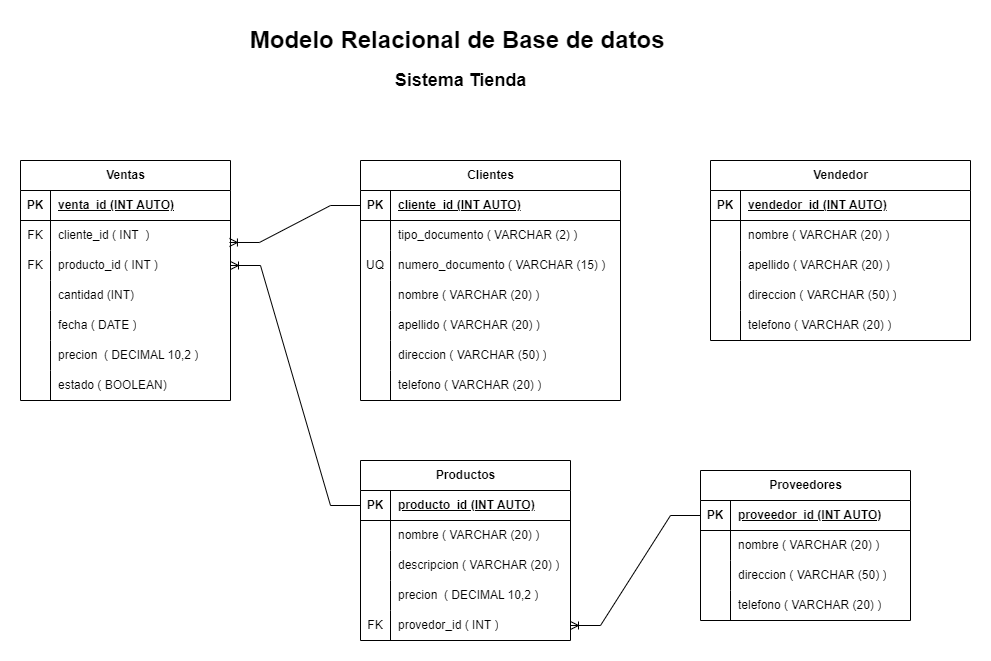
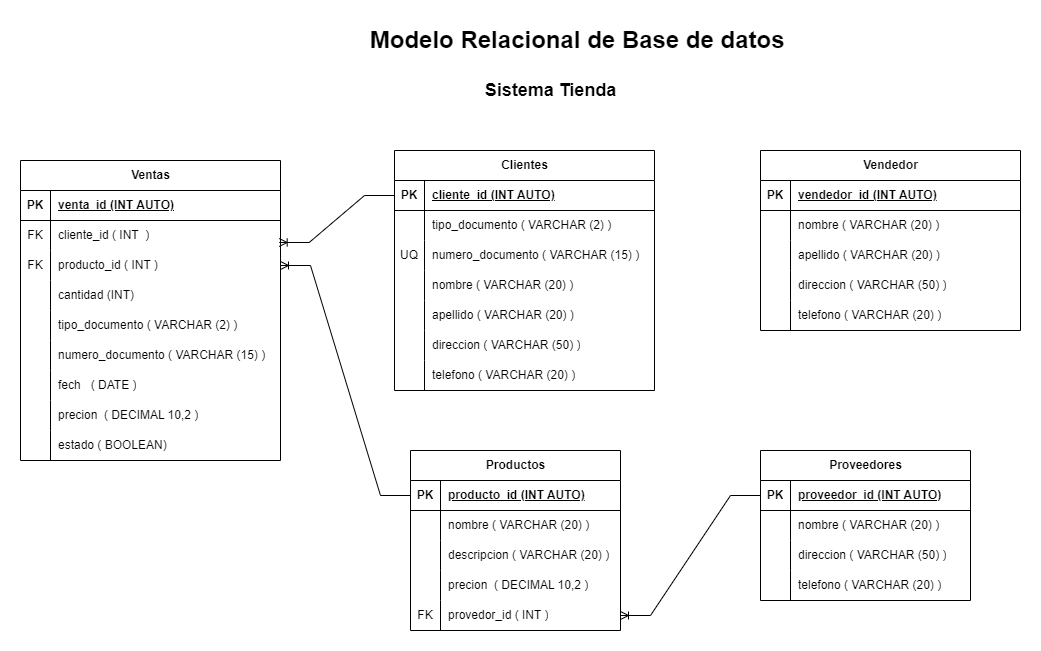
Creación de archivo README.md
Se realiza la creación y documentación de la aplicación en el archivo README.md

diff --git a/README.md b/README.md
@@ -1,23 +1,68 @@
 # Talleres 7: SQL: Sentencias básicas y setup - Cantera 2 - Sofka
 
+## Tabla De Contenido.
+1. [Información General](#información-general)
+1. [Requerimientos](#requerimientos)
+1. [Implementación](#implementación)
+1. [Instalación](#instalación)
+1. [Tecnologías](#tecnologías)
+1. [Enlaces](#enlaces)
+1. [Autor](#autor)
 
-## Tienda
+---
 
-## Listado de entidades
+## Información General
+
+Crear una base de datos en MySQL que incluya la primera, segunda y tercera forma normal de SQL.
+
+--- 
+
+### Requerimientos
+ 
+#### La base de datos consiste en dar solución a una tienda que contiene lo siguiente:
+
+1. La tienda tiene productos y proveedores
+1. La tienda vende productos y tiene clientes
+1. La tienda solo tiene un vendedor, el dueño
+1. Los clientes no están registrados pero si se pide el número de documento y tipo de documento para poder hacer la venta.
+
+#### Entregables dos scripts SQL en dos archivo .sql, el cual, cuando este script se ejecute en MySQL deberá hacer lo siguiente:
+
+- Primer script:
+    - Crear las tablas requeridas con las relaciones necesarias
+    - Llenar las tablas con información previa para poder manipular la base de datos a nivel de datos.
+    - Realizar dos borrados lógicos y dos borrados físicos de ventas realizadas.
+    - Modificar tres productos en su nombre y proveedor que los provee.
+- Segundo script:
+    - Consulta SQL donde pueda obtener los productos vendidos digitando tipo de documento y número de documento.
+    - Consultar productos por medio del nombre, el cual debe mostrar quien o quienes han sido sus proveedores.
+    - [PLUS no obligatorio] Crear una consulta que me permita ver qué producto ha sido el más vendido y en qué cantidades de mayor a menor.
+
+---
+
+### Implementación
+
+En este proyecto se implementó SQL como lenguaje de programación y mysql workbench como entorno gráfico de diseño de bases de datos.
+
+
+## Base de Datos Tienda
+
+## Listado de entidades y atributos.
 
 ### productos  **( ED )**  <!-- Entidad de datos -->
 - producto_id  **( PK )** <!-- Llave primaria -->
 - nombre
-- descripcion
+- descripción
 - precio
-- provedor_id  **( FK )**  <!-- Llave foranea -->
+- provedor_id  **( FK )**  <!-- Llave foránea -->
 
 
 ### proveedores **( ED )**  <!-- Entidad de datos -->
 - proveedor_id  **( PK )** <!-- Llave primaria -->
 - nombre
-- direccion
-- telefono
+- dirección
+- teléfono
+
 
 ### clientes        **( ED )**  <!-- Entidad de datos -->
 - cliente_id        **( PK )** <!-- Llave primaria -->
@@ -25,24 +70,29 @@
 - numero_documento  **(UQ)**  <!-- Campo unico -->
 - nombre
 - apellido
-- direccion
-- telefono
+- dirección
+- teléfono
+
 
 ### ventas    **( ED )**  <!-- Entidad de datos -->
 - ventas_id   **( PK )** <!-- Llave primaria -->
 - cliente_id  **( FK )**  <!-- Llave foranea -->
 - producto_id **( FK )**  <!-- Llave foranea -->
 - cantidad
+- tipo_documento   
+- numero_documento  
 - fecha
 - precio
 - estado
+
 
 ### vendedor      **( ED )**  <!-- Entidad de datos -->
 - vendedor_id     **( PK )** <!-- Llave primaria -->
 - nombre   
 - apellido   
-- direccion
-- telefono
+- dirección
+- teléfono
+
 
 ## Relaciones
 
@@ -51,18 +101,72 @@
 1. Un **producto** pueden tener varias **ventas**   (_1 - M_).
 
 
-## Modelo Entidad Relacion 
+## Modelo Entidad Relación
 
 ![](./Modelo-Entida-Relacion.png)
 
 
 
-
 ## Glosario
 
-- **PK**  _Primary Key_ 
-- **FK**  _Foreing Key_ 
-- **UQ**  _Unique Attribute_
-- **ED**  Entida de datos 
-- **EP**  Entida Pivote 
-- **EC**  Entidad Catalogo 
+- **PK** _Primary Key_
+- **FK** _Foreing Key_
+- **UQ** _Unique Attribute_
+- **ED** Entidad de datos
+- **EP** Entidad Pivote
+- **EC** Entidad Catálogo
+
+---
+
+### Instalación
+
+1. Abrir la terminal del Windows.
+
+1. Si no tiene conocimiento de la terminal, ingrese al siguiente link para que realice una breve introducción: https://learn.microsoft.com/es-es/windows/terminal/
+
+1. Clonar el repositorio colocando en la terminal de Windows, el comando: git clone https://github.com/Mendoalon/Taller-7-SQL.git
+
+1. Abrir la aplicación MySQL Workbench.
+
+1. Si no tiene conocimiento de la aplicacion MySQL Workbench, ingrese al siguiente link para que realice una breve introducción e instalación: https://www.youtube.com/watch?v=0p9J9SmCX8M
+
+1. Tener la aplicación MySQL Workbench abierta y ubicarse en la barra superior, en la pestaña file, presionar click y seleccionar Open SQL Script.
+
+1. Abrir el proyecto clonado de nombre: Taller-7-SQL.
+
+1. Encontrará la estructura dos archivos de nombres: PrimerScript.sql y SegundoScrip.sql.
+
+1. Seleccione primero el archivo PrimerScript.sql
+
+1. Luego realice el mismo proceso del paso 6 y seleccione el archivo SegundoScrip.sql
+
+1. El aplicativo MySQL Workbench mostrará dos pestañas en la parte superior.
+
+1. Seleccione la pestaña PrimerScript y ubiqué el icono de "rayo", genera click y ejecutará la creación de las tablas con sus consultas.
+
+1. Para la segunda pestaña de nombre SegundoScrip realicé el paso anterior y ejecutar la consultas solicitadas.
+
+1. Cada archivo cuenta con la documentación necesaria para su entendimiento.
+
+
+Observación: Para el correcto funcionamiento de la aplicación favor realicé los paso como se le indican.
+
+---
+
+### Tecnologías
+
+El taller fue desarrollado usando.
+
+- Tecnología: MySQL.
+- Editor: MySQL Workbench.
+
+---
+
+### Enlaces  
+
+1. Enlace del repositorio GitHub:  https://github.com/Mendoalon/Taller-7-SQL.git
+
+---
+
+### Autor  
+ # Luis Alberto Mendoza Alonso.
